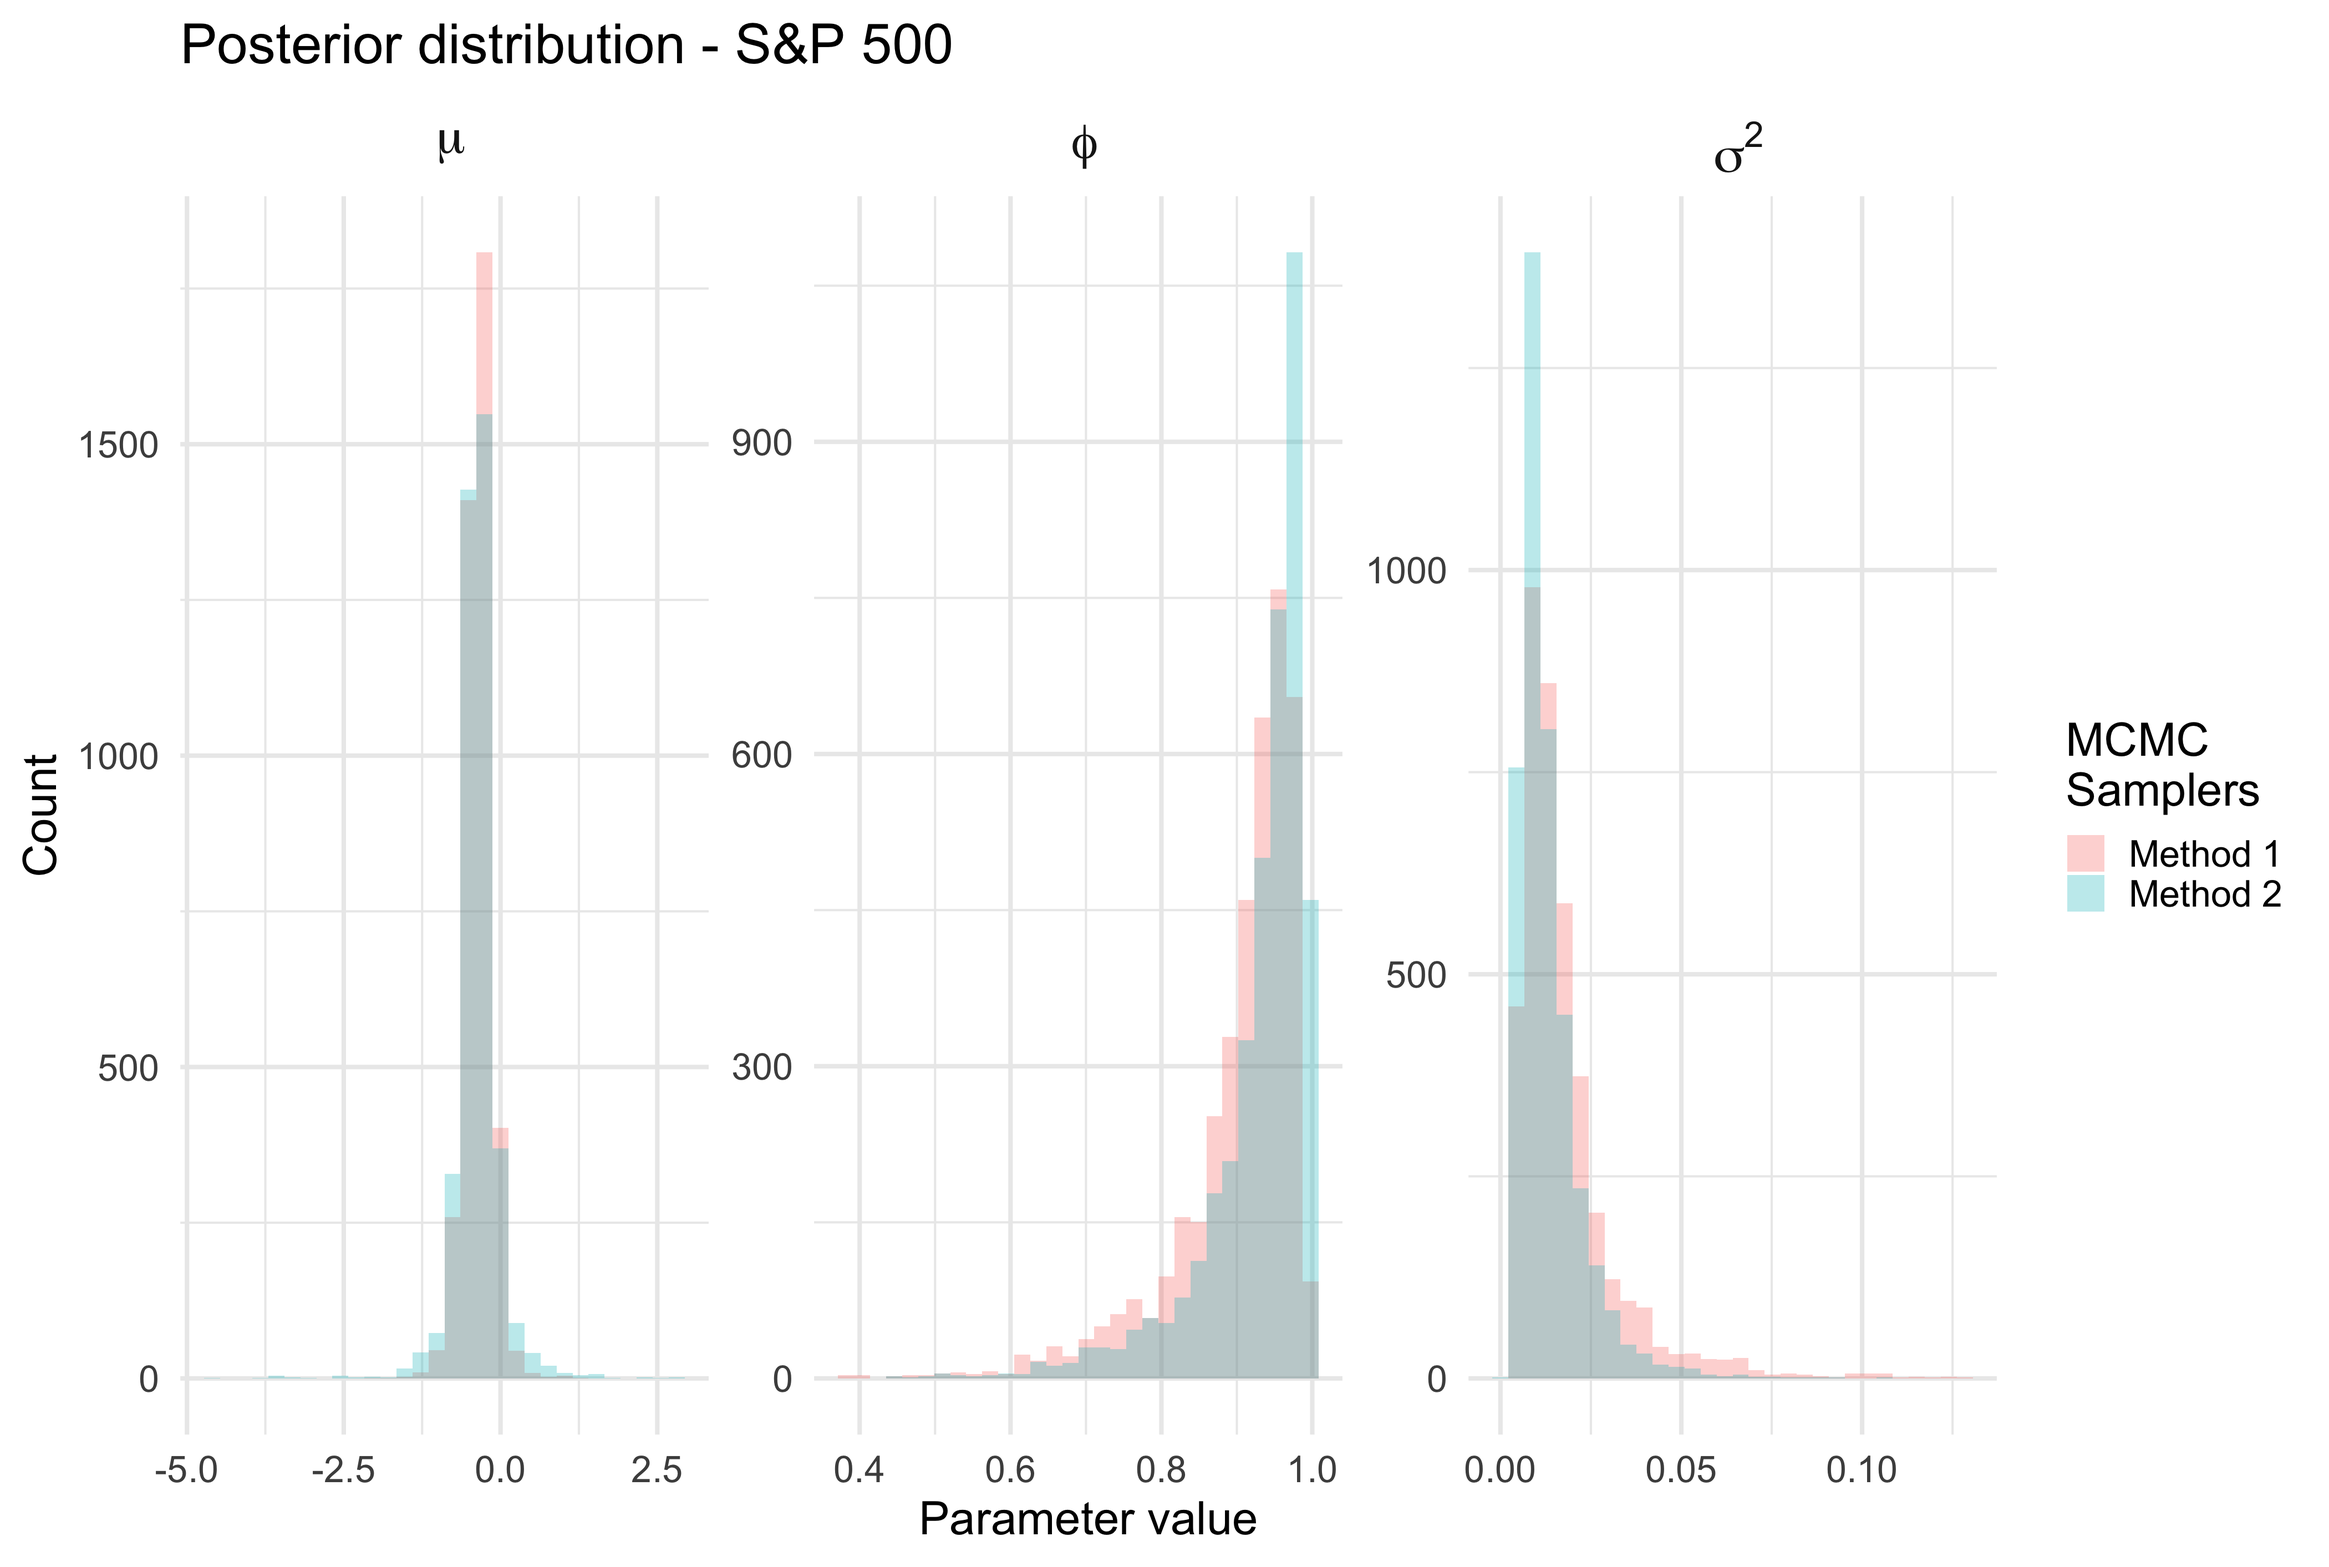
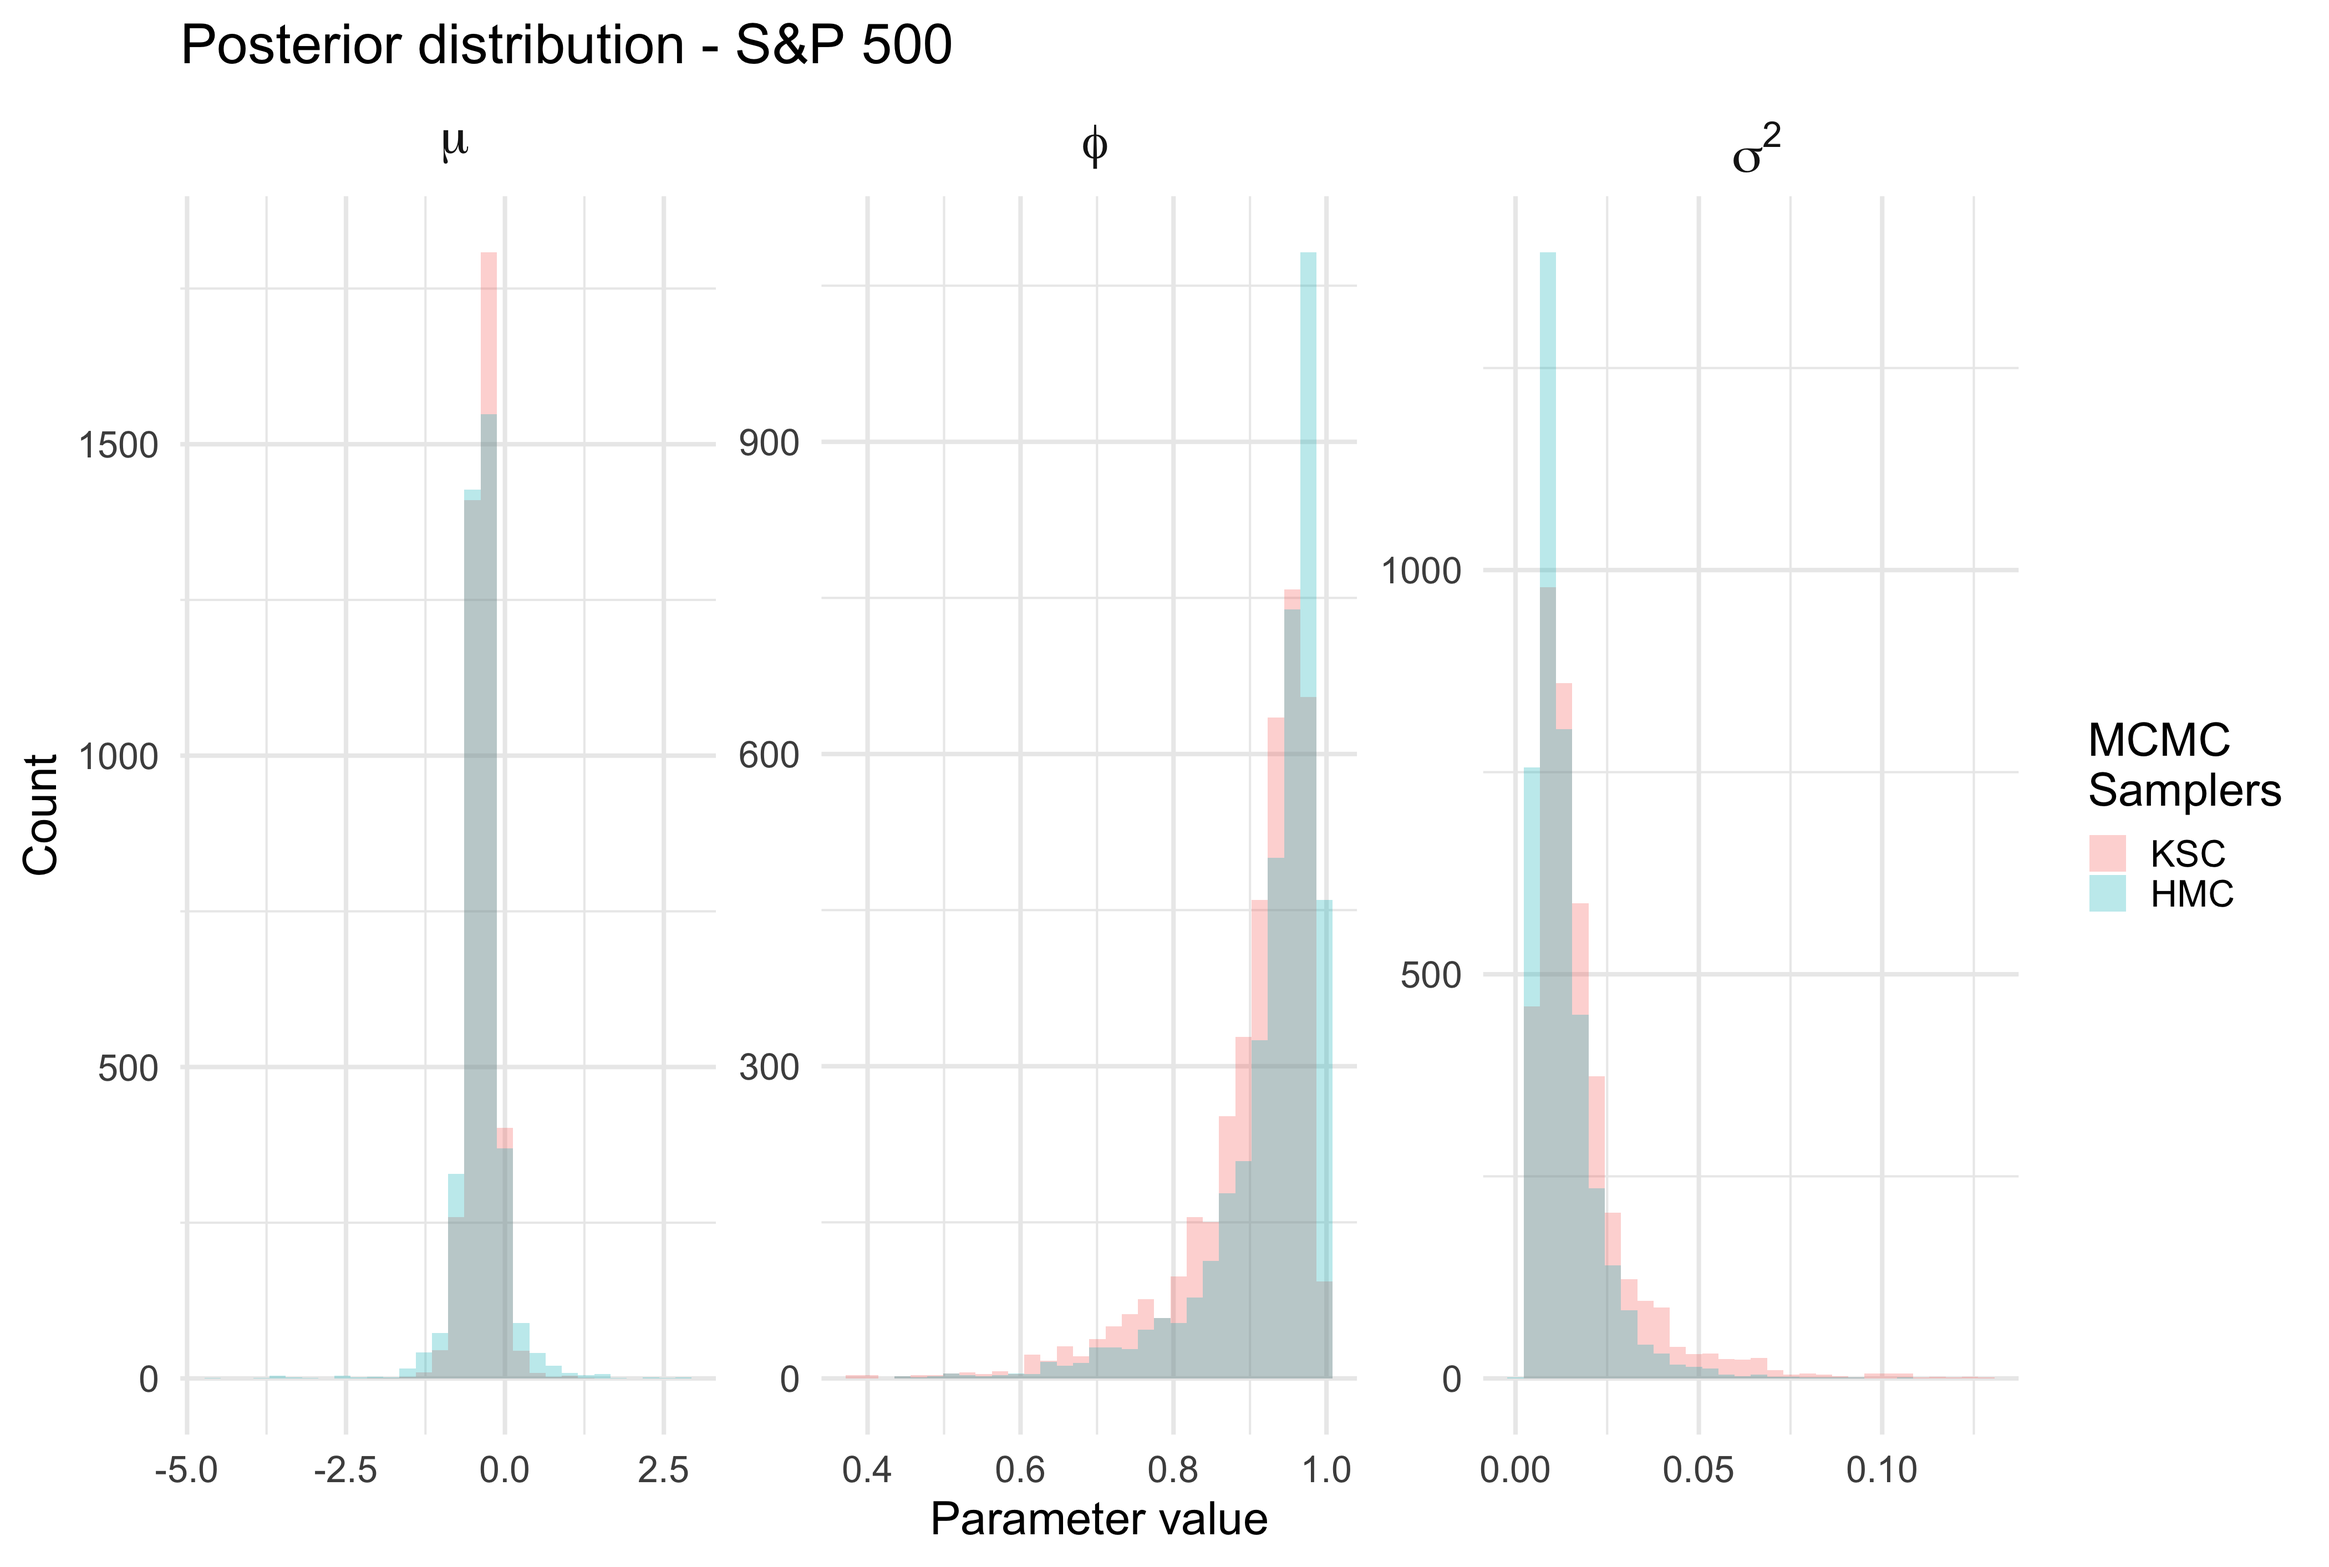
updated tables

diff --git a/manuscript/main.tex b/manuscript/main.tex
@@ -107,15 +107,32 @@ right  = 1.0in]{geometry}
 
     Furthermore, different sampling strategies and MCMC tools could provide different posterior estimates for the same model. Assuming no issues in computation, these diagnostic measures do not provide any evidence to which estimate is closer to the truth.
 
-    To illustrate this problem, the stochastic volatility model is estimated with two different MCMC algorithms on real data. The data are the de-meaned log returns of the 2023 January-September S\&P 500 Index. Below are the marginal posterior estimates for the static parameters $\mu$, $\phi$ and $\sigma^2$ and corresponding summary statistics.
+    To illustrate this problem, the stochastic volatility model is estimated with two different MCMC algorithms on real data. The data are the de-meaned log returns of the 2023 January-September S\&P 500 Index. Figure \ref{fig:realdataex} visualises the marginal posterior estimates for the static parameters $\mu$, $\phi$ and $\sigma^2$ with corresponding summary statistics in Tables \ref{tab:realdata}.
 
     \begin{figure}[h]
         \centering
         \includegraphics[scale=0.1]{motivating_example/real_data_ex.png}
-        \caption{Posterior samples from two MCMC algorithms using S\&P 500 data. While the shape of the distributions are similar, the modes of method 2 is much higher and the tails of method 1 are fatter for $\phi$ and $\sigma^2$. Convergence diagnostics do not tell us which estimate is "more correct" since we don't observe the true model or true data generating process.}
+        \caption{Posterior samples from the Hamiltonian Monte Carlo (HMC) and Kim Sherphard and Chib (KSC) MCMC samplers using S\&P 500 data. While the shape of the distributions are similar, the modes of method 2 is much higher and the tails of method 1 are fatter for $\phi$ and $\sigma^2$. Convergence diagnostics do not tell us which estimate is "more correct" since we don't observe the true model or true data generating process.}
+        \label{fig:realdataex}
     \end{figure}
 
-    These estimates show the marginal posteriors of each parameter sharing similar shapes. $\phi$  has a fatter left tail for and $\sigma^2$ has heavier right tails for sampling method 1. Furthermore, sampling method 2 has higher peaks at their mode relative to method 1 with a tighter spread. Based on this information alone, there is no certainty in whether method 1 or method 2 is has a more correct estimate conditional on data and model. There are other methods for model or algorithmic selection in this context (for example, out of sample predictive performance), but for parameter estimation it is unclear which one should be selected. 
+    \begin{table}[H]
+        \centering
+        \begin{tabular}{|c|c|c|c|c|c|c|c|} \hline 
+        Parameter&  MCMC&Min& q25&  Median& Mean & q75&Max\\ \hline 
+        $\mu$&  KSC&-2.03 & -0.472 & -0.354 & -0.355 & -0.231 & 1.31 \\
+     $\mu$&  HMC&-4.55 & -0.508 & -0.373 & -0.370 & -0.229 &2.86  \\\hline 
+     $\phi$&  KSC&0.384 & 0.875 & 0.928 & 0.902 & 0.958 & 0.997 \\
+     $\phi$&  HMC&0.438 & 0.910 & 0.953 & 0.929 & 0.977 &1.00  \\ \hline 
+     $\sigma^2$&  KSC&0.00237 & 0.00891 & 0.0138 & 0.0178 & 0.0210 & 0.130 \\ 
+     $\sigma^2$&  HMC&0.00209 & 0.00731 & 0.0105 & 0.0131 & 0.0159 &0.107 \\ \hline
+        \end{tabular}
+        \caption{Summary statistics for KSC sampler}
+        \label{tab:realdata}
+    \end{table}
+    
+
+    These estimates show the marginal posteriors of each parameter sharing similar shapes. $\phi$  has a fatter left tail for the KSC sampler and $\sigma^2$ has heavier right tails for HMC. This is evident in the quantiles with the 25th quantile for $\phi$ being smaller at 0.875 for KSC compared to 0.910 in HMC. Furthermore, sampling method 2 has higher peaks at their mode relative to method 1 with a tighter spread. Based on this information alone, there is no certainty in whether method 1 or method 2 is has a more correct estimate conditional on data and model. There are other methods for model or algorithmic selection in this context (for example, out of sample predictive performance), but for parameter estimation it is unclear which one should be selected. 
 
 \subsection{Diagnostic limitations on a single simulation}
     Diagnosing computational problems on real data is difficult due to confounding factors. A strategy around this is to evaluate a model and algorithm on simulated data. One approach is to simulate data from the proposed model using known parameters. Then, fit the model on the simulated data and see if the model can recover the true parameters. This gives us the benefit of defining the true parameters of the data generating process to be estimated. If the model and algorithm cannot adequately capture the true parameter, then we cannot be confident that it will provide reliable estimates on real data.
@@ -547,7 +564,7 @@ right  = 1.0in]{geometry}
         \label{fig:ncphmc5k}
     \end{figure}
 
-    Additionally, HMC struggles to generate efficient posterior samples from the centered parameterisation of the stochastic volatility model. Figure \ref{fig:hmcess} visualises the distribution of ESS for the static parameters after 5000 SBC iterations. The non centered model appears to generate independent samples much more efficiently than the centered model. This is consistent with HMC struggliing to sample overall from the posteriors of $\sigma^2$ and $\phi$.
+    Additionally, HMC struggles to generate efficient posterior samples from the centered parameterisation of the stochastic volatility model. Figure \ref{fig:hmcess} and Table \ref{tab:hmcess} summarises the distribution of ESS for the static parameters after 5000 SBC iterations. The non centered model appears to generate independent samples much more efficiently than the centered model. This is consistent with HMC struggliing to sample overall from the posteriors of $\sigma^2$ and $\phi$.
 
     \begin{figure}[H]
         \centering
@@ -555,6 +572,21 @@ right  = 1.0in]{geometry}
         \caption{Effective sample sizes for static parameters after 5000 iterations of SBC and 1000 post warmup samples for Hamiltoninan Monte Carlo. The centered parameterisation struggles to generate independent samples for $\sigma^2$ and $\phi$. Non parameterisation demonstrates much more efficient sampling behaviour.}
         \label{fig:hmcess}
     \end{figure}
+
+    \begin{table}[H]
+        \centering
+        \begin{tabular}{|c|c|c|c|c|c|c|c|} \hline 
+        Parameter &  Type&Min& q25&  Median& Mean & q75&Max\\ \hline 
+        $\mu$&  Centered&3.79 & 99.7 & 184. & 305. & 457. & 1997.  \\
+     $\mu$&  Reparam&14.5 & 738. & 1099. & 1143. & 1500. & 2993.  \\\hline 
+     $\phi$&  Centered&1.44 & 11.0 & 21.7 & 26.3 & 34.1 & 635.  \\
+     $\phi$&  Reparam&48.8 & 355. & 476. & 521. & 651. & 1445.   \\ \hline 
+     $\sigma^2$&  Centered& 1.17 & 2.99 & 7.04 & 8.05 & 11.3 & 90.7 \\ 
+     $\sigma^2$&  Reparam&46.1 & 403. & 553. & 585. & 734. & 1486. \\ \hline
+        \end{tabular}
+        \caption{HMC: ESS for centered and reparameterised stochastic volatility model.}
+        \label{tab:hmcess}
+    \end{table}
 
     \subsection{Gaussian Mixture Approximation}
     The Gaussian Mixture Approximation is run for 1000 and 5000 SBC iterations with the first 10,000 samples discarded as burnin (following the method of \citet{kim1998stochastic}). However, unlike KSC who take 750,000 posterior draws from the model, the number of posterior samples taken as part of the SBC procedure is 9,999. Taking 750,000 draws from the Gaussian mixture approximation would lead to issues due to disk space limitations and computational resources required to run SBC. Furthermore, the number of posterior samples is larger than the 999 taken for the SBC experiment run for Hamiltonian Monte Carlo. Earlier experiments attempted 999 post burn in draws for the Gaussian approximation, however there are concerns that such a short chain would not have converged onto the target posterior distribution. Therefore 9,999 draws was chosen as a compromise under both constraints. 
@@ -595,7 +627,7 @@ right  = 1.0in]{geometry}
         \label{fig:ncpksc5k}
     \end{figure}
 
-    The ESS estimates for this model indicate a high degree of autocorrelation and difficulty in generating independent samples from both parameterisations. The numerical results are summarised in table x. The estimate for $\mu$ in the reparameterised model exhibits a long right tail (longer than the 10,000 posterior draws suggesting the presence of negatively autocorrelated draws). Overall, the bespoke MCMC is quite insufficient at sampling the static parameters. 
+    The ESS estimates for this model indicate a high degree of autocorrelation and difficulty in generating independent samples from both parameterisations. The numerical results are summarised in Figure \ref{kscess} and Table \ref{tab:kscess}. The estimate for $\mu$ in the reparameterised model exhibits a long right tail (longer than the 10,000 posterior draws suggesting the presence of negatively autocorrelated draws). Overall, the bespoke MCMC is quite insufficient at sampling the static parameters. 
     
     % The median ESS for $\mu$, $\phi$ and $\sigma^2$ are 559, 103, 39.5 respectively for 10,000 post burn in draws. Despite having 10 times the number of draws, the number of effectively independent samples is much smaller relative to HMC, suggesting that this bespoke sampling strategy is highly inefficient. 
 
@@ -607,6 +639,21 @@ right  = 1.0in]{geometry}
         \caption{Effective sample sizes for static parameters after 5000 iterations of SBC and 1000 post burnin samples for the Gaussian Mixture model. The bespoke sampling strategy struggles to generate independent samples for all static parameters, suggesting a high degree of autocorrelation in the Markkov Chain.}
         \label{fig:kscess}
     \end{figure}
+
+    \begin{table}[H]
+        \centering
+        \begin{tabular}{|c|c|c|c|c|c|c|c|} \hline 
+        Parameter &  Type&Min& q25&  Median& Mean & q75&Max\\ \hline 
+        $\mu$&  Centered&9.57 & 352. & 559. & 1482. & 1552. & 9907.\\
+     $\mu$&  Reparam&1.99 & 205. & 569. & 4174. & 6384. & 34055.\\\hline 
+     $\phi$&  Centered&2.47 & 74.0 & 103. & 112. & 130. & 1222.\\
+     $\phi$&  Reparam&1.03 & 83.4 & 132. & 325. & 419. & 1907. \\ \hline 
+     $\sigma^2$&  Centered&2.33 & 29.0 & 39.5 & 44.2 & 52.8 & 384. \\ 
+     $\sigma^2$&  Reparam&1.25 & 47.4 & 73.4 & 399. & 591. & 6618. \\ \hline
+        \end{tabular}
+        \caption{KSC: ESS for centered and reparameterised stochastic volatility model.}
+        \label{tab:kscess}
+    \end{table}
 
     Overall the results from the KSC algorithm indicates some issues with calibration. The centered parameterastion appears to be more favourable for this sampling approach. Other avenues to improve the sampling of this model could be to consider a different bespoke sampling method or another parameterisation such as non centered in scale.
 
@@ -727,6 +774,20 @@ This study only considered a handful of potential algorithms, sampling strategie
 \newpage
 
 \section{Appendix A: Mixture Gaussian weights}
+
+\begin{table}[H]
+    \centering
+    \begin{tabular}{lccc} 
+          $\omega$ &$Pr(\omega = i)$&  $m_i$&  $\nu^2_i$\\ 
+          1&0.00730  &  -10.12999&  5.79596\\ 
+          2&0.10556  &   -3.97281 &  2.61369\\ 
+          3&0.00002 &  -8.56686 &   5.17950\\ 
+          4&0.04395 &  2.77786  &   0.16735 \\ 
+          5&0.34001&   0.61942    &  0.64009\\ 
+          6&0.24566 &  1.79518    &  0.34023 \\ 
+          7&0.25750 &  -1.08819    &  1.26261\\ 
+    \end{tabular} 
+\end{table}
 
 \newpage
 
